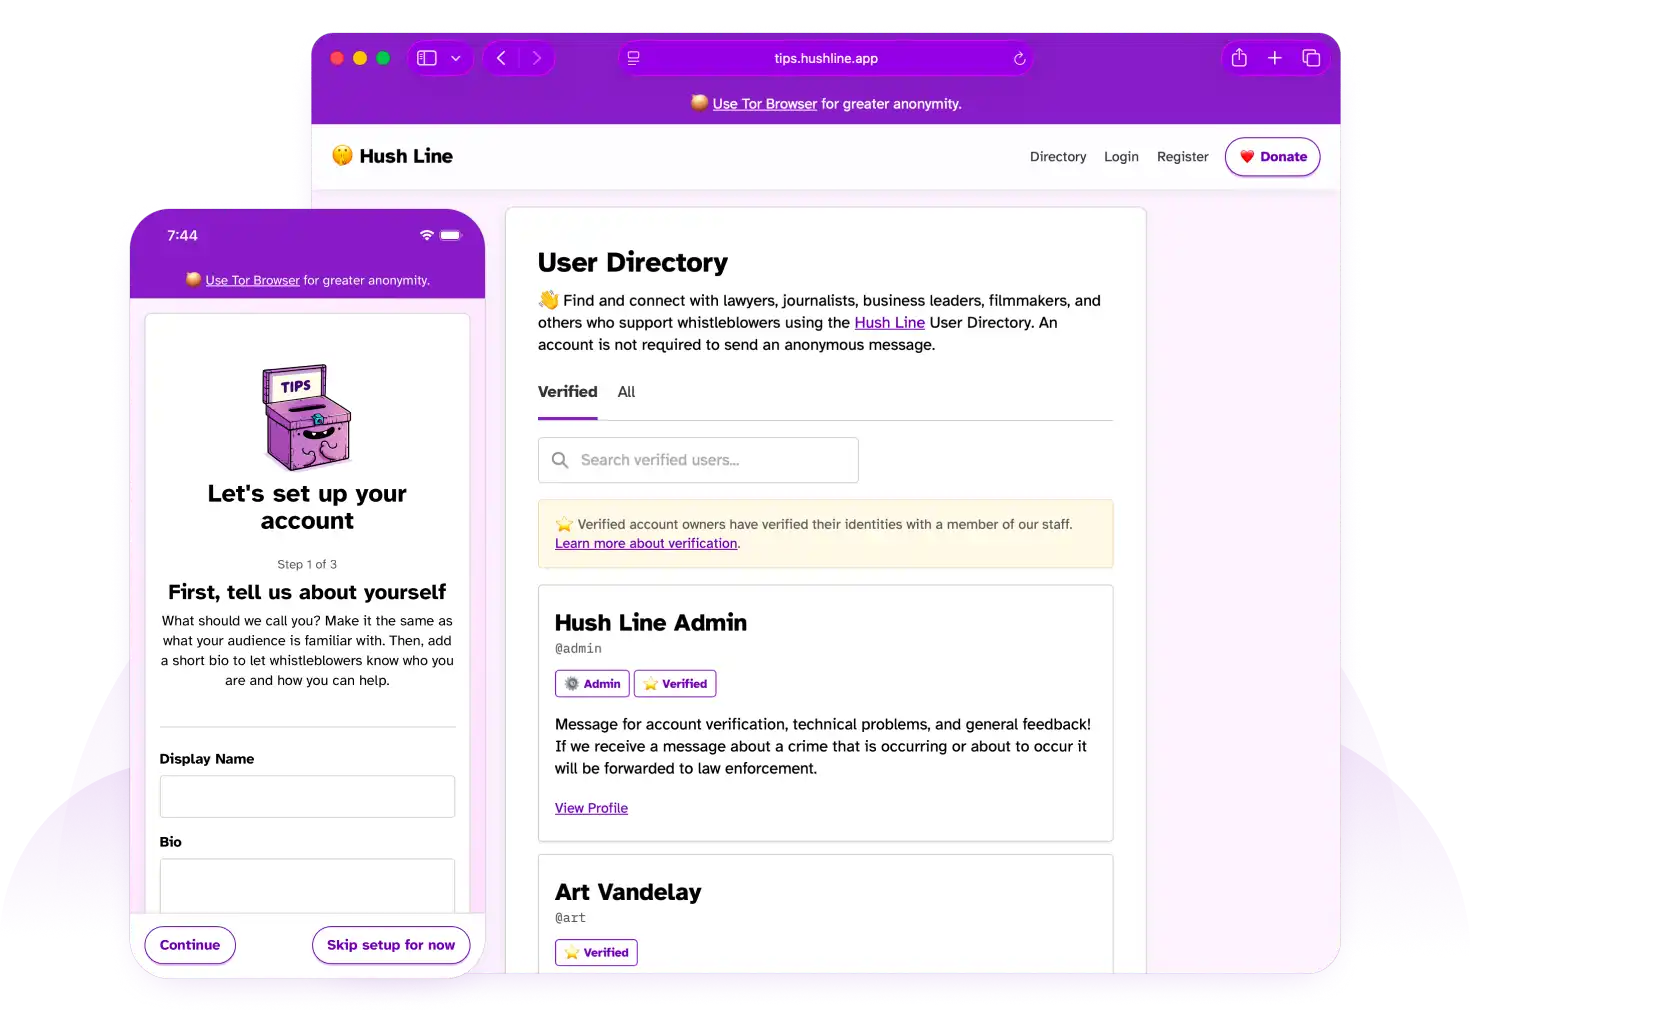
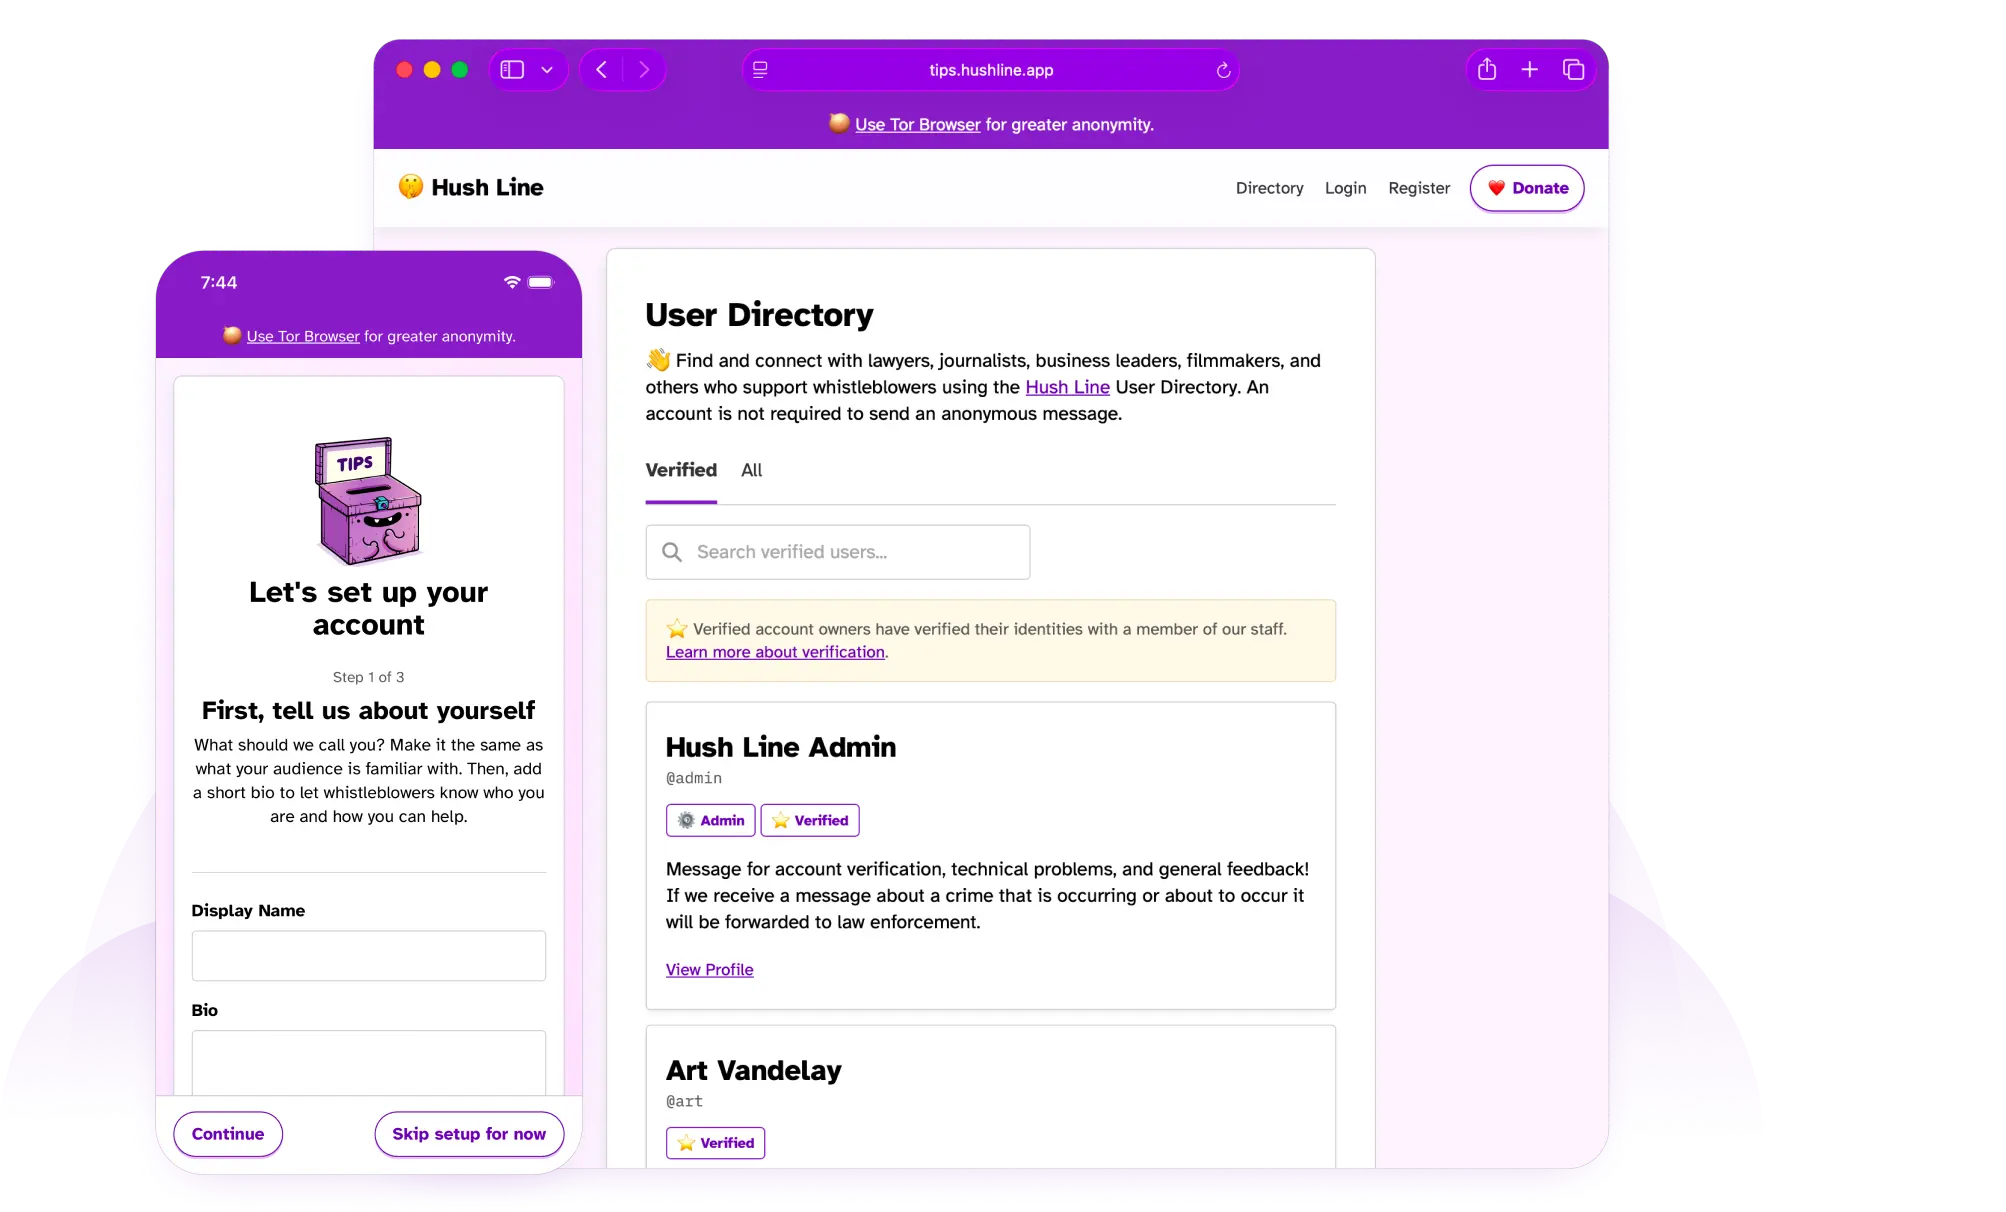
perf updates

diff --git a/src/index.html b/src/index.html
@@ -253,7 +253,7 @@
                         <p>Make your message form work exactly how your business or workflow requires. Available for
                             Super Users. </p>
                     </div>
-                    <img src="assets/img/custom-forms.png" alt="Custom Message Forms">
+                    <img src="assets/img/custom-forms.webp" alt="Custom Message Forms">
                 </div>
             </div>
             <div class="feature">
